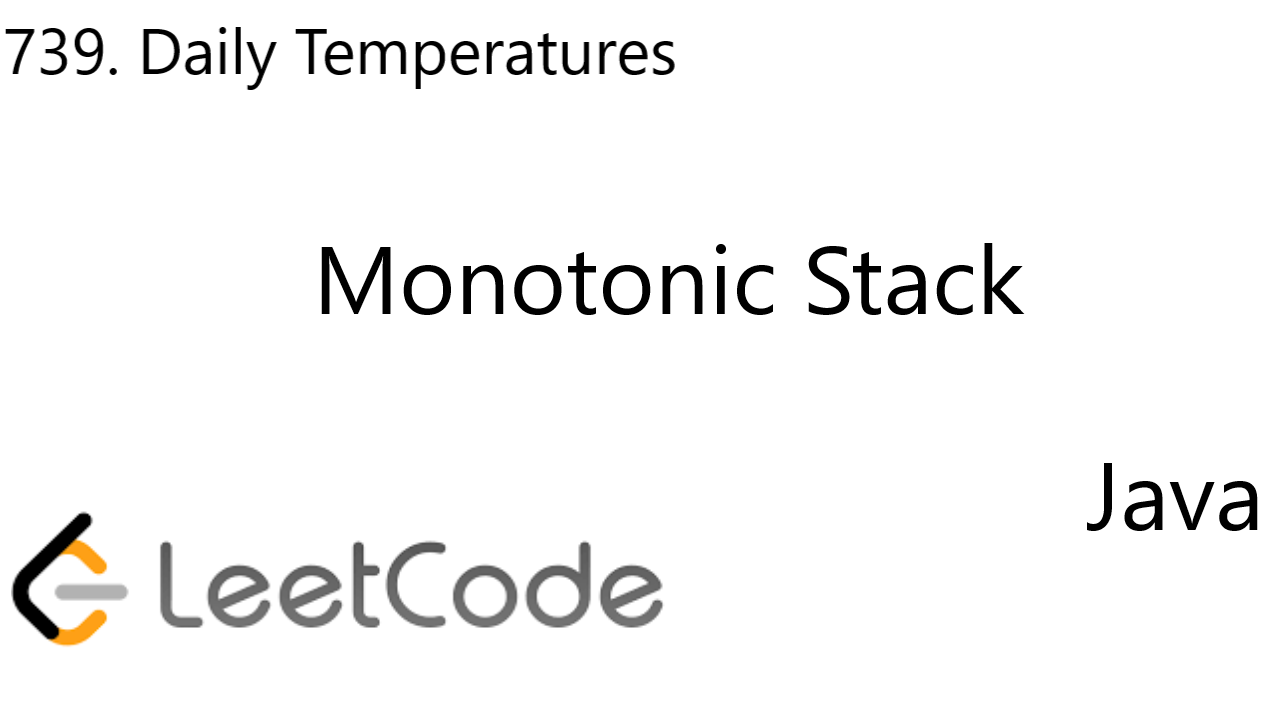
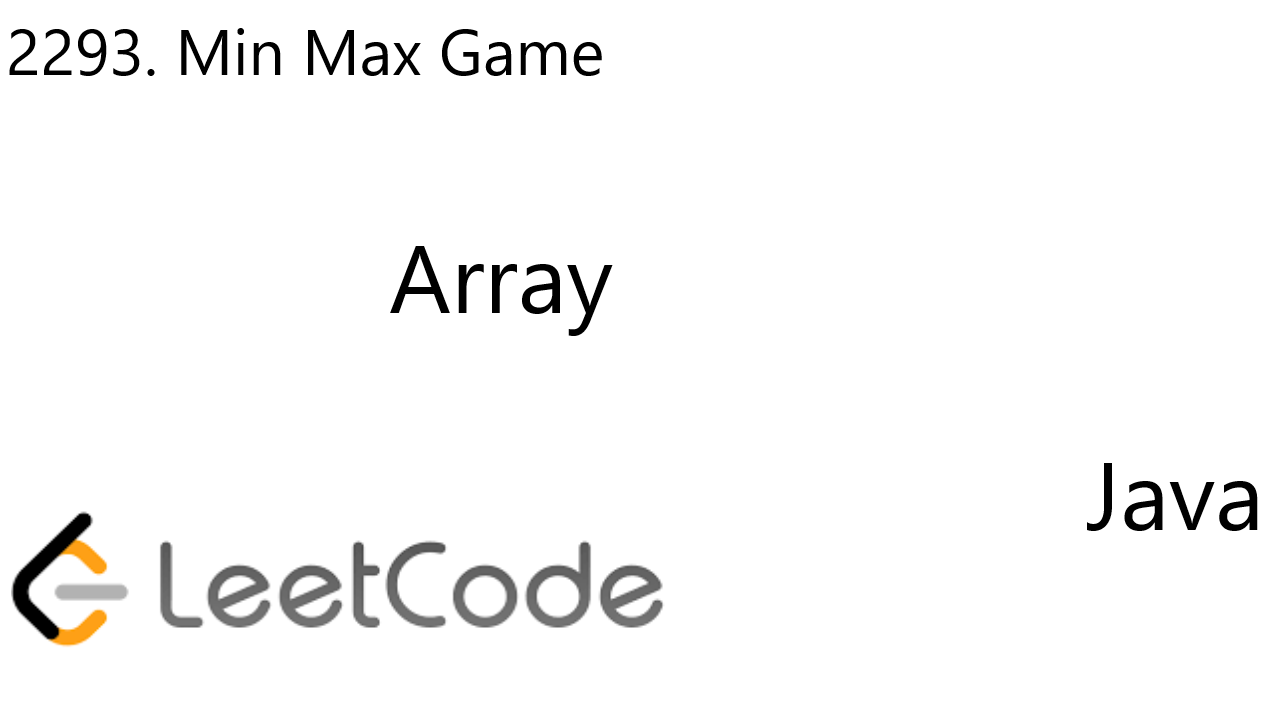
update

Changed region(s): [[0.25, 0.3361, 0.8125, 0.4583], [0.0, 0.0306, 0.5312, 0.1222]]

diff --git a/LeetCode/02293. Min Max Game/README.MD b/LeetCode/02293. Min Max Game/README.MD
@@ -1,0 +1,44 @@
+# Array
+* Time Complexity: O(N)
+* Space Complexity: O(N)
+	* N as length of nums
+```
+class Solution {
+    public int minMaxGame(int[] nums) {
+        while(nums.length > 1){
+            int[] cur = new int[nums.length/2];
+            for(int i = 0; i < cur.length; i++){
+                if(i%2 == 0){
+                    cur[i] = Math.min(nums[i*2], nums[i*2+1]);
+                }else{
+                    cur[i] = Math.max(nums[i*2], nums[i*2+1]);
+                }
+            }
+            nums = cur;
+        }
+        return nums[0];
+    }
+}
+```
+# Recursion
+* Time Complexity: O(N)
+* Space Complexity: O(N)
+	* N as length of nums
+```
+class Solution {
+    public int minMaxGame(int[] nums) {
+        while(nums.length > 1){
+            int[] cur = new int[nums.length/2];
+            for(int i = 0; i < cur.length; i++){
+                if(i%2 == 0){
+                    cur[i] = Math.min(nums[i*2], nums[i*2+1]);
+                }else{
+                    cur[i] = Math.max(nums[i*2], nums[i*2+1]);
+                }
+            }
+            return minMaxGame(cur);
+        }
+        return nums[0];
+    }
+}
+```

diff --git a/LeetCode/00674. Longest Continuous Increasing Subsequence/README.MD b/LeetCode/00674. Longest Continuous Increasing Subsequence/README.MD
@@ -1,6 +1,7 @@
 # Array
 * Time Complexity: O(N)
 * Space Complexity: O(1)
+	* N as length of nums
 ```
 class Solution {
     public int findLengthOfLCIS(int[] nums) {
@@ -13,6 +14,27 @@ class Solution {
             }
             left = right;
             right++;
+        }
+        return res;
+    }
+}
+```
+# 2 Pointers
+* Time Complexity: O(N)
+* Space Complexity: O(1)
+	* N as length of nums
+```
+class Solution {
+    public int findLengthOfLCIS(int[] nums) {
+        int cur_right = 0, 
+            res = 0;
+        for(int i = 0; i < nums.length; i++){
+            if(i == 0 || nums[i-1] >= nums[i]){
+                cur_right = 1;
+            }else{
+                cur_right++;
+            }
+            res = Math.max(cur_right, res);
         }
         return res;
     }

diff --git a/LeetCode/02363. Merge Similar Items/README.MD b/LeetCode/02363. Merge Similar Items/README.MD
@@ -1,0 +1,22 @@
+# Array
+* Time Complexity: O(NlogN)
+* Space Complexity: O(N)
+	* N as length of items1 + items2
+```
+class Solution {
+    public List<List<Integer>> mergeSimilarItems(int[][] items1, int[][] items2) {
+        TreeMap<Integer, Integer> map = new TreeMap();
+        for(int[] item: items1){
+            map.merge(item[0], item[1], Integer::sum);
+        }
+        for(int[] item: items2){
+            map.merge(item[0], item[1], Integer::sum);
+        }
+        List<List<Integer>> res = new ArrayList();
+        for(var e: map.entrySet()){
+            res.add(Arrays.asList(e.getKey(), e.getValue()));
+        }
+        return res;
+    }
+}
+```

diff --git a/LeetCode/02367. Number of Arithmetic Triplets/README.MD b/LeetCode/02367. Number of Arithmetic Triplets/README.MD
@@ -1,0 +1,19 @@
+# HashSet
+* Time Complexity: O(N)
+* Space Complexity: O(N)
+	* N as length of nums
+```
+class Solution {
+    public int arithmeticTriplets(int[] nums, int diff) {
+        HashSet<Integer> set = new HashSet();
+        int res = 0;
+        for(int num: nums){
+            if(set.contains(num - diff) && set.contains(num - diff*2)){
+                res++;
+            }
+            set.add(num);
+        }
+        return res;
+    }
+}
+```

diff --git a/LeetCode/00451. Sort Characters By Frequency/README.MD b/LeetCode/00451. Sort Characters By Frequency/README.MD
@@ -15,12 +15,14 @@ class Solution {
         StringBuilder sb = new StringBuilder();
         while(!pq.isEmpty()){
             Map.Entry e = pq.poll();
+            char key = (char)e.getKey();
             int cnt = (int)e.getValue();
             while(cnt-- > 0){
-                sb.append(e.getKey());
+                sb.append(key);
             }
         }
         return sb.toString();
     }
+}  }
 }
 ```

diff --git a/LeetCode/01304. Find N Unique Integers Sum up to Zero/README.MD b/LeetCode/01304. Find N Unique Integers Sum up to Zero/README.MD
@@ -7,7 +7,7 @@ class Solution {
     public int[] sumZero(int n) {
         int[] res = new int[n];
         res[0] = 0;
-        for(int i = 1; i < res.length; i++){
+        for(int i = 1; i < n; i++){
             res[i] = i;
             res[0] -= i;
         }
